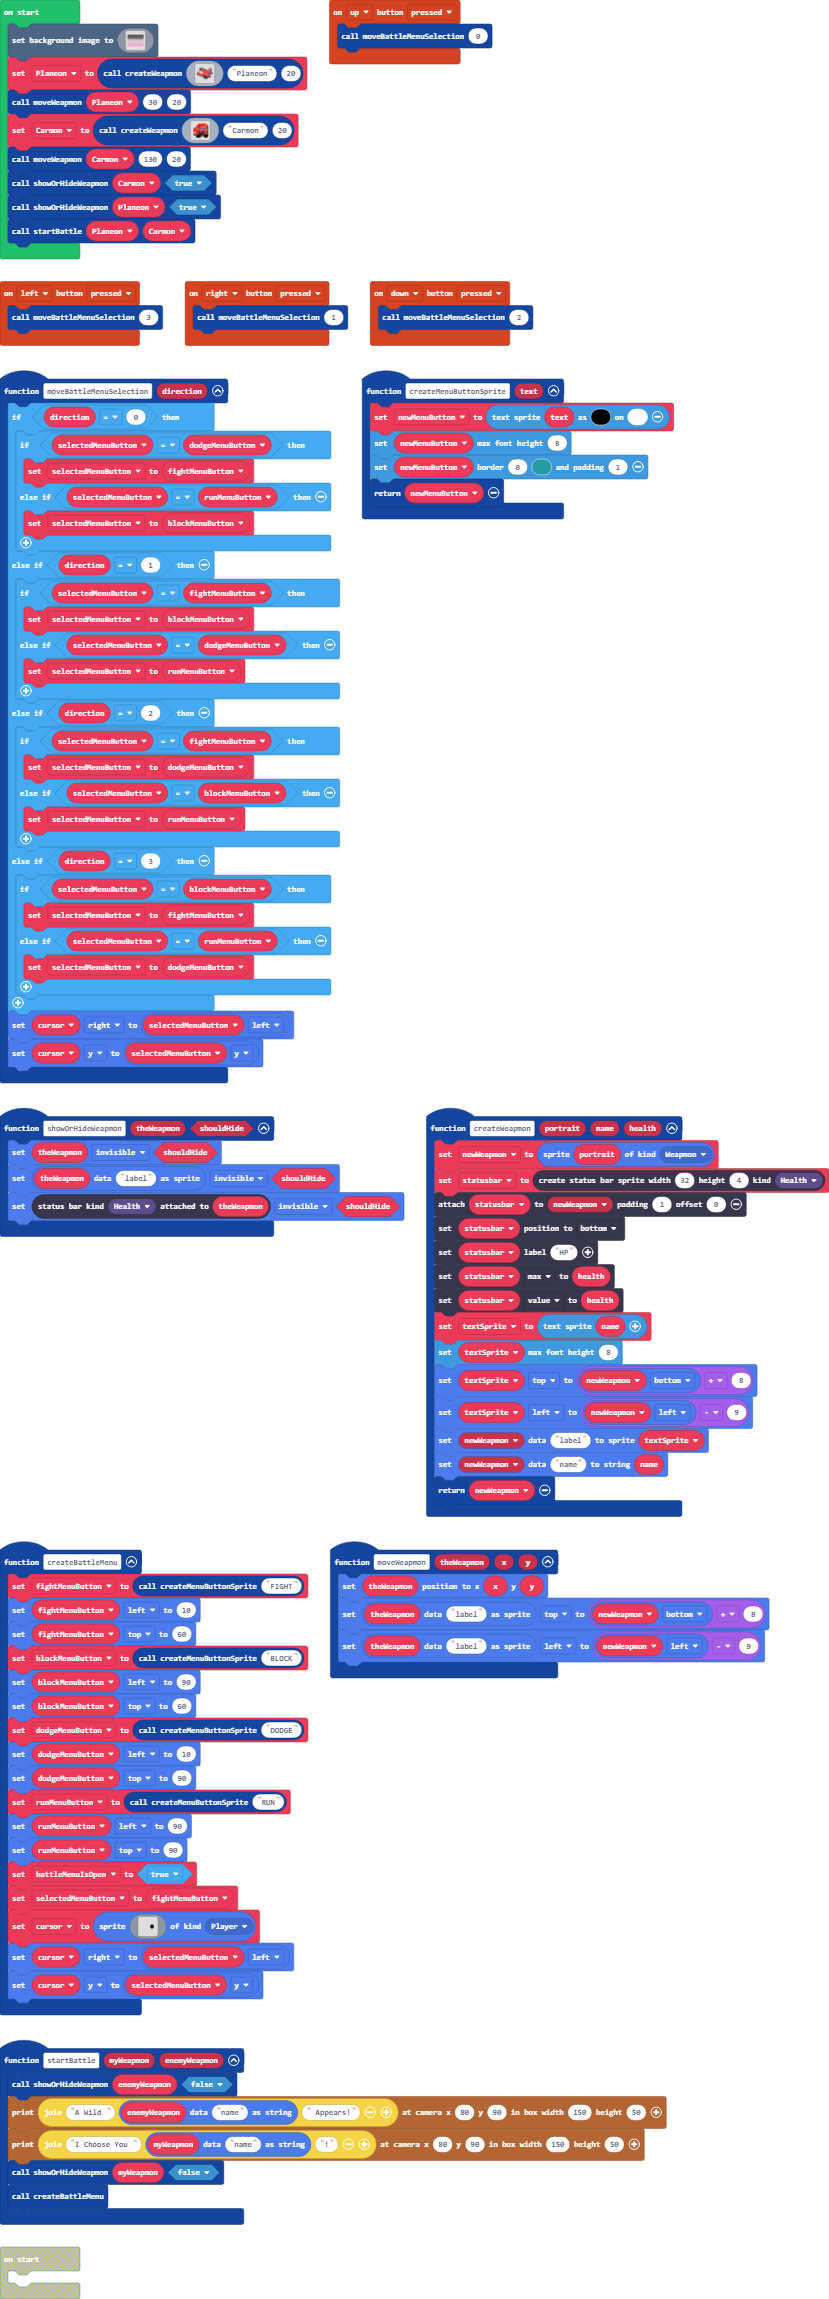
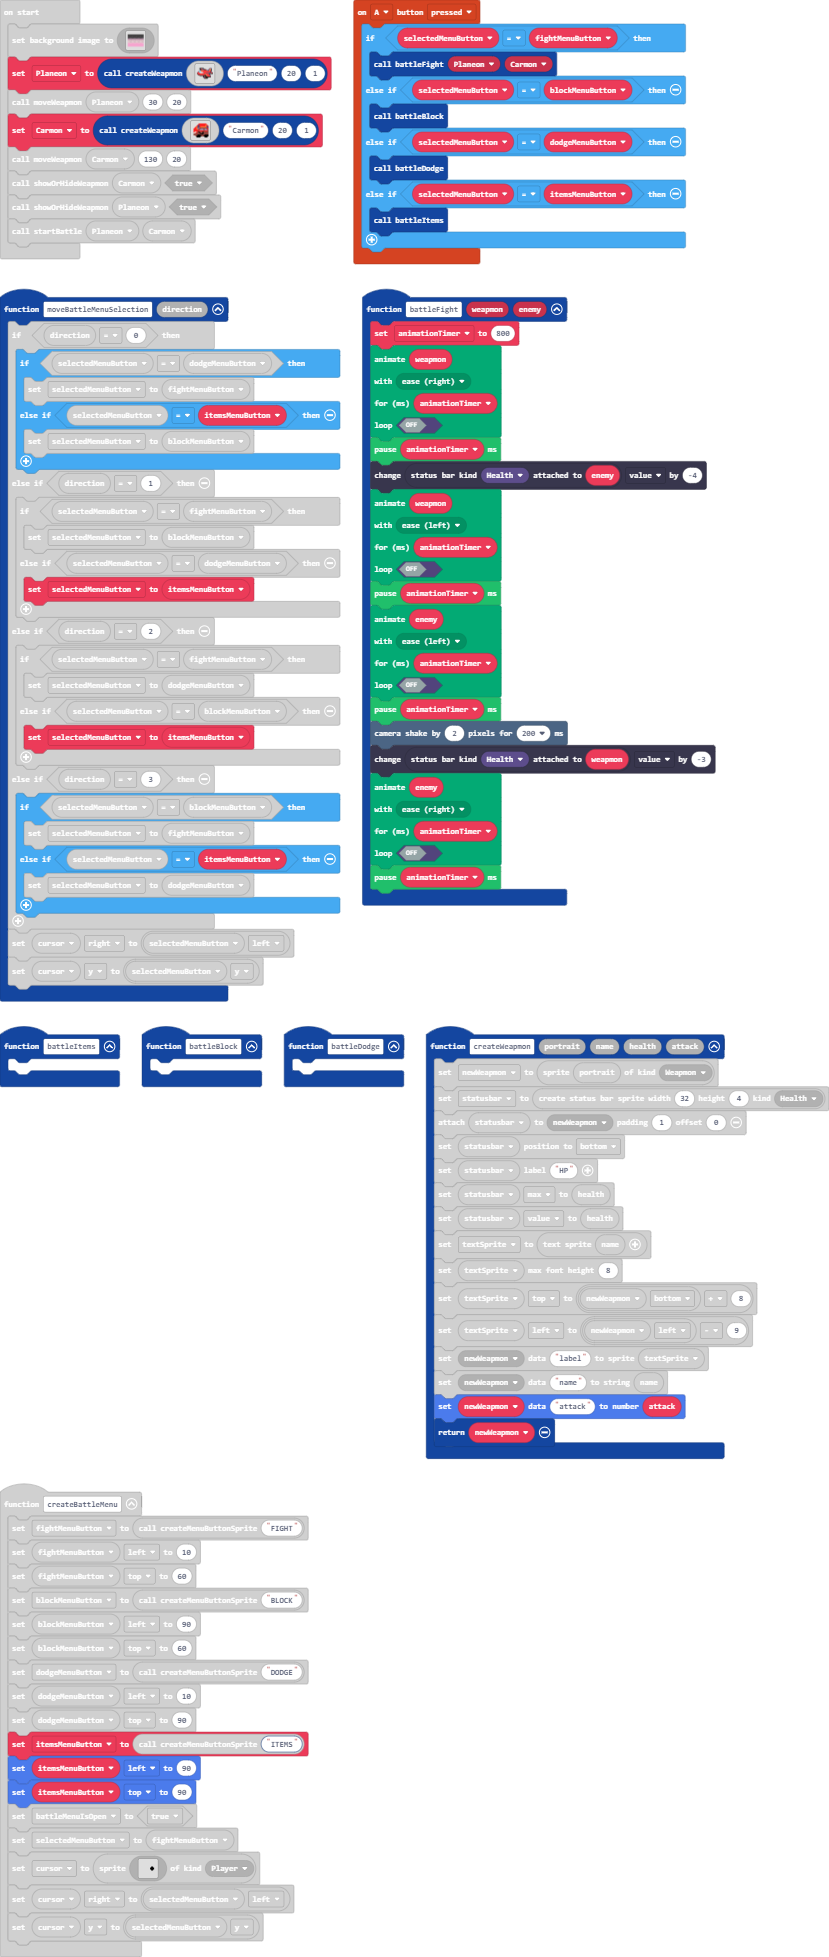
Update pxt.json, main.blocks, main.ts

diff --git a/main.ts b/main.ts
@@ -5,25 +5,25 @@ function moveBattleMenuSelection (direction: number) {
     if (direction == 0) {
         if (selectedMenuButton == dodgeMenuButton) {
             selectedMenuButton = fightMenuButton
-        } else if (selectedMenuButton == runMenuButton) {
+        } else if (selectedMenuButton == itemsMenuButton) {
             selectedMenuButton = blockMenuButton
         }
     } else if (direction == 1) {
         if (selectedMenuButton == fightMenuButton) {
             selectedMenuButton = blockMenuButton
         } else if (selectedMenuButton == dodgeMenuButton) {
-            selectedMenuButton = runMenuButton
+            selectedMenuButton = itemsMenuButton
         }
     } else if (direction == 2) {
         if (selectedMenuButton == fightMenuButton) {
             selectedMenuButton = dodgeMenuButton
         } else if (selectedMenuButton == blockMenuButton) {
-            selectedMenuButton = runMenuButton
+            selectedMenuButton = itemsMenuButton
         }
     } else if (direction == 3) {
         if (selectedMenuButton == blockMenuButton) {
             selectedMenuButton = fightMenuButton
-        } else if (selectedMenuButton == runMenuButton) {
+        } else if (selectedMenuButton == itemsMenuButton) {
             selectedMenuButton = dodgeMenuButton
         }
     }
@@ -39,6 +39,17 @@ function createMenuButtonSprite (text: string) {
     newMenuButton.setBorder(0, 6, 1)
     return newMenuButton
 }
+controller.A.onEvent(ControllerButtonEvent.Pressed, function () {
+    if (selectedMenuButton == fightMenuButton) {
+        battleFight(Planeon, Carmon)
+    } else if (selectedMenuButton == blockMenuButton) {
+        battleBlock()
+    } else if (selectedMenuButton == dodgeMenuButton) {
+        battleDodge()
+    } else if (selectedMenuButton == itemsMenuButton) {
+        battleItems()
+    }
+})
 function showOrHideWeapmon (theWeapmon: Sprite, shouldHide: boolean) {
     theWeapmon.setFlag(SpriteFlag.Invisible, shouldHide)
     sprites.readDataSprite(theWeapmon, "label").setFlag(SpriteFlag.Invisible, shouldHide)
@@ -47,7 +58,10 @@ function showOrHideWeapmon (theWeapmon: Sprite, shouldHide: boolean) {
 controller.left.onEvent(ControllerButtonEvent.Pressed, function () {
     moveBattleMenuSelection(3)
 })
-function createWeapmon (portrait: Image, name: string, health: number) {
+function battleDodge () {
+	
+}
+function createWeapmon (portrait: Image, name: string, health: number, attack: number) {
     newWeapmon = sprites.create(portrait, SpriteKind.Weapmon)
     statusbar = statusbars.create(32, 4, StatusBarKind.Health)
     statusbar.attachToSprite(newWeapmon, 1, 0)
@@ -61,6 +75,7 @@ function createWeapmon (portrait: Image, name: string, health: number) {
     textSprite.left = newWeapmon.left - 9
     sprites.setDataSprite(newWeapmon, "label", textSprite)
     sprites.setDataString(newWeapmon, "name", name)
+    sprites.setDataNumber(newWeapmon, "attack", attack)
     return newWeapmon
 }
 function createBattleMenu () {
@@ -73,9 +88,9 @@ function createBattleMenu () {
     dodgeMenuButton = createMenuButtonSprite("DODGE")
     dodgeMenuButton.left = 10
     dodgeMenuButton.top = 90
-    runMenuButton = createMenuButtonSprite("RUN")
-    runMenuButton.left = 90
-    runMenuButton.top = 90
+    itemsMenuButton = createMenuButtonSprite("ITEMS")
+    itemsMenuButton.left = 90
+    itemsMenuButton.top = 90
     battleMenuIsOpen = true
     selectedMenuButton = fightMenuButton
     cursor = sprites.create(assets.image`Cursor`, SpriteKind.Player)
@@ -93,6 +108,9 @@ function moveWeapmon (theWeapmon: Sprite, x: number, y: number) {
 controller.down.onEvent(ControllerButtonEvent.Pressed, function () {
     moveBattleMenuSelection(2)
 })
+function battleBlock () {
+	
+}
 function startBattle (myWeapmon: Sprite, enemyWeapmon: Sprite) {
     showOrHideWeapmon(enemyWeapmon, false)
     story.printDialog("A Wild " + sprites.readDataString(enemyWeapmon, "name") + " Appears!", 80, 90, 50, 150)
@@ -100,6 +118,44 @@ function startBattle (myWeapmon: Sprite, enemyWeapmon: Sprite) {
     showOrHideWeapmon(myWeapmon, false)
     createBattleMenu()
 }
+function battleFight (weapmon: Sprite, enemy: Sprite) {
+    animationTimer = 800
+    animation.runMovementAnimation(
+    weapmon,
+    animation.animationPresets(animation.easeRight),
+    animationTimer,
+    false
+    )
+    pause(animationTimer)
+    statusbars.getStatusBarAttachedTo(StatusBarKind.Health, enemy).value += -4
+    animation.runMovementAnimation(
+    weapmon,
+    animation.animationPresets(animation.easeLeft),
+    animationTimer,
+    false
+    )
+    pause(animationTimer)
+    animation.runMovementAnimation(
+    enemy,
+    animation.animationPresets(animation.easeLeft),
+    animationTimer,
+    false
+    )
+    pause(animationTimer)
+    scene.cameraShake(2, 200)
+    statusbars.getStatusBarAttachedTo(StatusBarKind.Health, weapmon).value += -3
+    animation.runMovementAnimation(
+    enemy,
+    animation.animationPresets(animation.easeRight),
+    animationTimer,
+    false
+    )
+    pause(animationTimer)
+}
+function battleItems () {
+	
+}
+let animationTimer = 0
 let battleMenuIsOpen = false
 let textSprite: TextSprite = null
 let statusbar: StatusBarSprite = null
@@ -108,9 +164,11 @@ let newMenuButton: TextSprite = null
 let cursor: Sprite = null
 let blockMenuButton: TextSprite = null
 let fightMenuButton: TextSprite = null
-let runMenuButton: TextSprite = null
+let itemsMenuButton: TextSprite = null
 let dodgeMenuButton: TextSprite = null
 let selectedMenuButton: TextSprite = null
+let Carmon: Sprite = null
+let Planeon: Sprite = null
 scene.setBackgroundImage(img`
     ffffffffffffffffffffffffffffffffffffffffffffffffffffffffffffffffffffffffffffffffffffffffffffffffffffffffffffffffffffffffffffffffffffffffffffffffffffffffffffffff
     ffffffffffffffffffffffffffffffffffffffffffffffffffffffffffffffffffffffffffffffffffffffffffffffffffffffffffffffffffffffffffffffffffffffffffffffffffffffffffffffff
@@ -233,7 +291,7 @@ scene.setBackgroundImage(img`
     3333333333333333333333333333333333333333333333333333333333333333333333333333333333333333333333333333333333333333333333333333333333333333333333333333333333333333
     3333333333333333333333333333333333333333333333333333333333333333333333333333333333333333333333333333333333333333333333333333333333333333333333333333333333333333
     `)
-let Planeon = createWeapmon(img`
+Planeon = createWeapmon(img`
     ....ffffff.........ccc..
     ....ff22ccf.......cc4f..
     .....ffccccfff...cc44f..
@@ -250,9 +308,9 @@ let Planeon = createWeapmon(img`
     .........fcc2ffffffff...
     ..........fc2ffff.......
     ...........fffff........
-    `, "Planeon", 20)
+    `, "Planeon", 20, 1)
 moveWeapmon(Planeon, 30, 20)
-let Carmon = createWeapmon(img`
+Carmon = createWeapmon(img`
     . . . . . . . . . . . . . . . . 
     . . . . . . 2 2 2 2 2 2 2 2 . . 
     . . . . . 2 c 2 2 2 2 2 2 4 2 . 
@@ -269,7 +327,7 @@ let Carmon = createWeapmon(img`
     . . . e f f f f f e e f f f f f 
     . . . . f f f f . . . . f f f . 
     . . . . . . . . . . . . . . . . 
-    `, "Carmon", 20)
+    `, "Carmon", 20, 1)
 moveWeapmon(Carmon, 130, 20)
 showOrHideWeapmon(Carmon, true)
 showOrHideWeapmon(Planeon, true)
